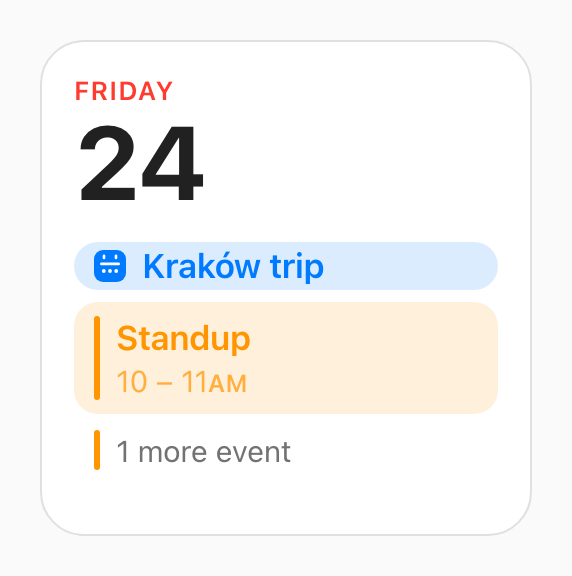
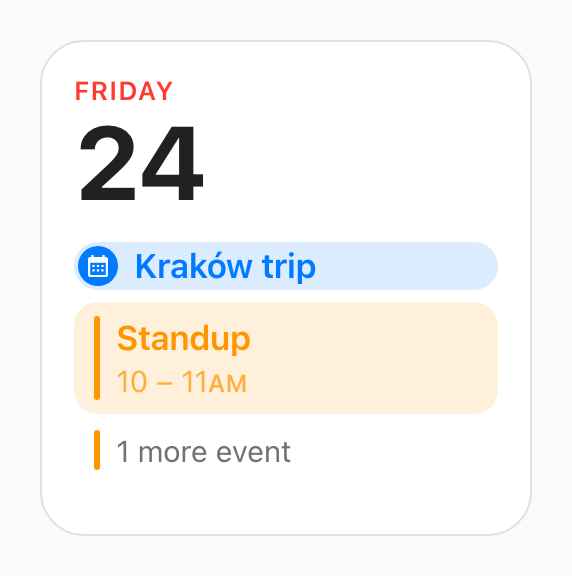
feat: update all-day event badge design

Changed region(s): [[0.1189, 0.4062, 0.5647, 0.5]]

diff --git a/src/cards/calendar/calendar-card.ts b/src/cards/calendar/calendar-card.ts
@@ -1,3 +1,4 @@
+import { mdiCalendarMonth } from '@mdi/js'
 import {
   css,
   html,
@@ -44,25 +45,37 @@ export interface CalendarCardConfig extends CupertinoCardConfig {
 const NO_EVENTS_TODAY = 'No Events Today'
 
 /**
- * The all-day badge: a filled rounded square with a calendar knocked out of it.
+ * How the MDI glyph is centred in the badge.
+ *
+ * `mdiCalendarMonth` inks x 3–21 and y 1–21, so (12, 11) is its centre and 18 is its
+ * width. The scale lands it 10 units wide on a badge whose viewBox is 1:1 with CSS
+ * pixels, so the calendar draws 10px however wide the disc around it gets. That is a
+ * fixed size and not a fraction of the badge: it is set by what survives being drawn at
+ * this size, and the disc is sized by the chip it caps.
+ */
+const GLYPH = 'translate(10 10) scale(0.5556) translate(-12 -11)'
+
+/**
+ * The all-day badge: a filled circle with a calendar knocked out of it.
  *
  * It replaces the colour bar, and it has to, because an all-day row has nothing else
- * left to identify it by — no time under the title, no location. Drawn inline rather
- * than as an `<ha-icon>`: the row is priced in pixels by `layout.ts`, and an icon that
- * arrives a frame late out of Home Assistant's icon registry would be measured at the
- * wrong height. The dev harness has no registry at all.
+ * left to identify it by — no time under the title, no location.
+ *
+ * The path comes from `@mdi/js` — the same icon set Home Assistant draws the rest of
+ * the dashboard from, so the badge belongs to the surrounding UI rather than to this
+ * card. It is a bare path string and tree-shakes down to that one string, which is why
+ * the package can be a dependency without the bundle noticing.
+ *
+ * Inlined rather than handed to `<ha-icon>` though, and that part is not incidental:
+ * the row is priced in pixels by `layout.ts`, and an icon arriving a frame late out of
+ * HA's icon registry would be measured at the wrong height. The dev harness has no
+ * registry at all — `dev/ha-stubs.ts` does not stub one — so `<ha-icon>` there is an
+ * empty box, and the README screenshots are taken in that harness.
  */
 const ALL_DAY_BADGE = html`
-  <svg class="badge" viewBox="0 0 16 16" aria-hidden="true">
-    <rect width="16" height="16" rx="4.5" fill="var(--item-color)" />
-    <g fill="#fff">
-      <rect x="4.35" y="2.2" width="1.3" height="2.4" rx="0.65" />
-      <rect x="10.35" y="2.2" width="1.3" height="2.4" rx="0.65" />
-      <rect x="3" y="6.3" width="10" height="1.3" rx="0.65" />
-      <circle cx="4.9" cy="10.5" r="0.95" />
-      <circle cx="8" cy="10.5" r="0.95" />
-      <circle cx="11.1" cy="10.5" r="0.95" />
-    </g>
+  <svg class="badge" viewBox="0 0 20 20" aria-hidden="true">
+    <circle cx="10" cy="10" r="10" fill="var(--item-color)" />
+    <path d=${mdiCalendarMonth} transform=${GLYPH} fill="#fff" />
   </svg>
 `
 
@@ -195,16 +208,27 @@ class CupertinoCalendarCard extends CupertinoCard<CalendarCardConfig> {
          under the title, so the chip closes up around the one line it has. 22px of title
          inside 1px of padding is the 24px that layout.ts prices a single budget row at
          (its ROW, less the gap) — this is the tallest one-row node there is, so it must
-         not grow. */
+         not grow.
+
+         The 2px on the left is the badge's inset, not a spacing step. A 24px chip with
+         a 12px inner radius ends in a semicircle of r=12; the badge is r=10 on the same
+         centre, so it clears the chip by 2px right around that arc rather than only at
+         the sides. It is the smallest inset that still reads as one shape nested in
+         another — flush, the two rims merge into a single edge and the badge stops
+         looking like a badge. Both radii and both insets move together or not at all. */
       .row.allday {
         align-items: center;
-        padding: 1px 10px;
+        padding: 1px 10px 1px 2px;
       }
 
+      /* 20px inside a 24px chip, so the badge clears the chip's edge by 2px on every
+         side — the row's own 1px of padding plus the 1px that centring 20 in 22 leaves
+         over. Nothing here forces the vertical gap; it falls out of those two, which is
+         why the width and the row's padding have to move together. */
       .badge {
         flex: none;
-        width: 16px;
-        height: 16px;
+        width: 20px;
+        height: 20px;
       }
 
       /* The colour bar that says which calendar an event belongs to. */

diff --git a/docs/calendar-widget-rules.md b/docs/calendar-widget-rules.md
@@ -32,11 +32,22 @@ the time in the same colour, weaker.
 **Reminder** — a neutral grey background, an empty circle in the list's colour, muted
 text. Reminders never show a location.
 
-**All-day event** — the tint of an event, but the bar gives way to a filled rounded
-square with a calendar knocked out of it, in the calendar colour, and then the title on
-one line with an ellipsis. Nothing else: no time, no location, no expanded form. The
-badge has to carry the meaning on its own, because there is no second line left to say
-"all day" on.
+**All-day event** — the tint of an event, but the bar gives way to a filled circle with
+a calendar knocked out of it, in the calendar colour, and then the title on one line
+with an ellipsis. Nothing else: no time, no location, no expanded form. The badge has to
+carry the meaning on its own, because there is no second line left to say "all day" on.
+The circle is set concentric with the rounded end of the chip and 2px smaller in radius,
+so it clears the chip by the same 2px right around that arc — not on the 10px rail inset
+the other rows use, and not flush either: flush, the two rims merge into one edge and
+the badge stops reading as a badge. The chip is 24px with a 12px radius, so the badge is
+20px with a 10px one, and the row still measures the 24px §4 prices it at.
+
+The calendar is `mdiCalendarMonth`, taken from `@mdi/js` as a path string and inlined.
+That is Home Assistant's own icon set, so the badge matches the icons around it on the
+dashboard, but it is deliberately not an `<ha-icon>`: rows are priced in pixels here
+(§4), and an icon that resolves a frame late out of HA's registry would be measured at
+the wrong height. The dev harness has no registry at all, and the screenshots below are
+taken in it.
 
 **`2 more events`** — the tail indicator, and the one row the flow can end on that is
 not an item: a thin bar in the calendar colour, grey text at a normal weight, and
